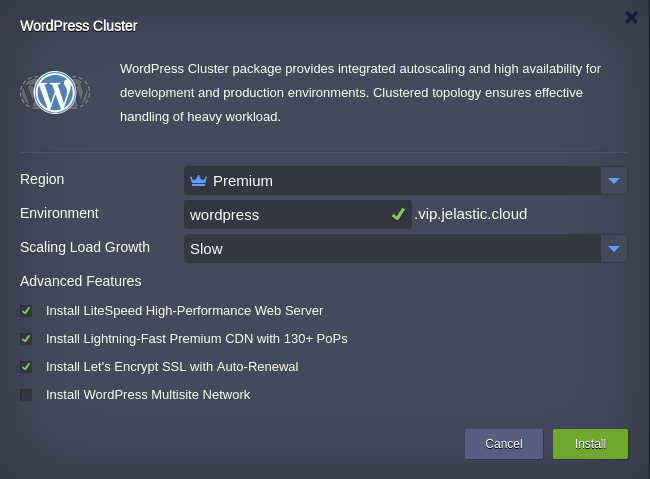
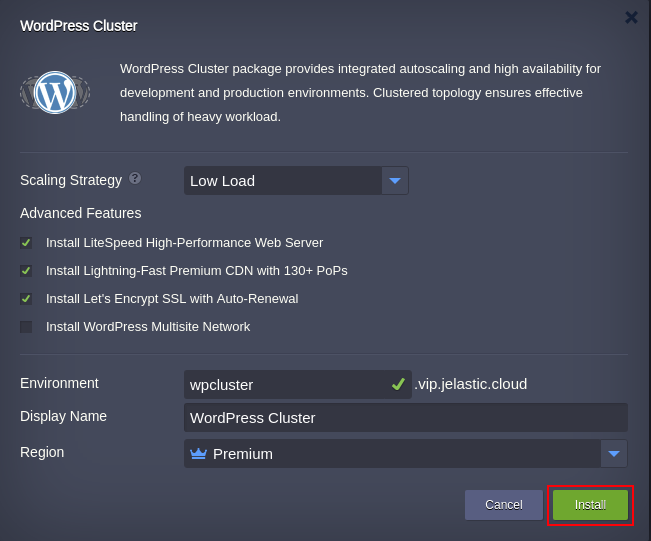
Readme for wordpress cluster updated

diff --git a/README.md b/README.md
@@ -32,15 +32,20 @@ Click the **Deploy** button below, specify your email address within the widget,
 
 In the opened confirmation window at Jelastic dashboard, if required change:  
 
-* Destination __[Region](https://docs.jelastic.com/environment-regions)__ if several are available  
+* preconfigured horizontal __Scaling Strategy__   
+ 
+*  what __Advanced Features__ should be installed or not  
 * __Environment__ name  
-* Preconfigured __Scaling Load Growth__ horizontal scaling scenario
-* Choose what __Advanced Features__ should be installed or not
+
+* __Display Name__  
+
+* destination __[Region](https://docs.jelastic.com/environment-regions)__ if several are available  
+
 and click on __Install__.
 
 ![WP Cluster Installation](images/install-new.png)
 
-Once the deployment is finished, you’ll see the appropriate success pop-up with access credentials to your administration WordPress panel, whilst the same information will be duplicated to your email box.
+Once the deployment is finished, you’ll see an appropriate success pop-up with access credentials to your administration WordPress panel, whilst the same information will be duplicated to your email box.
 
 ![WP Cluster Installed](images/success-wordpress.png)
 
